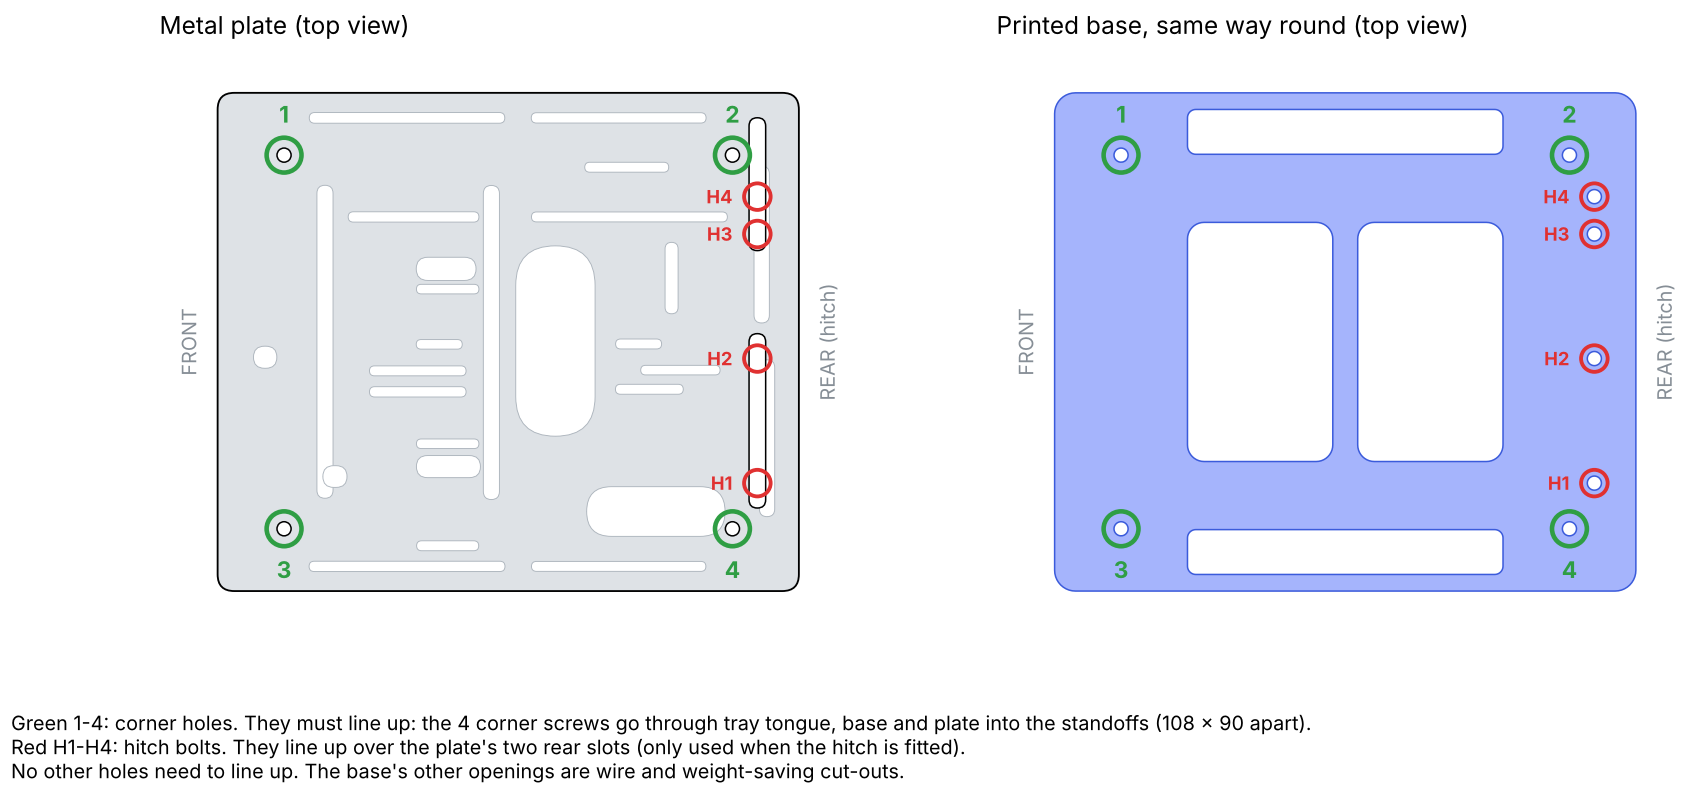
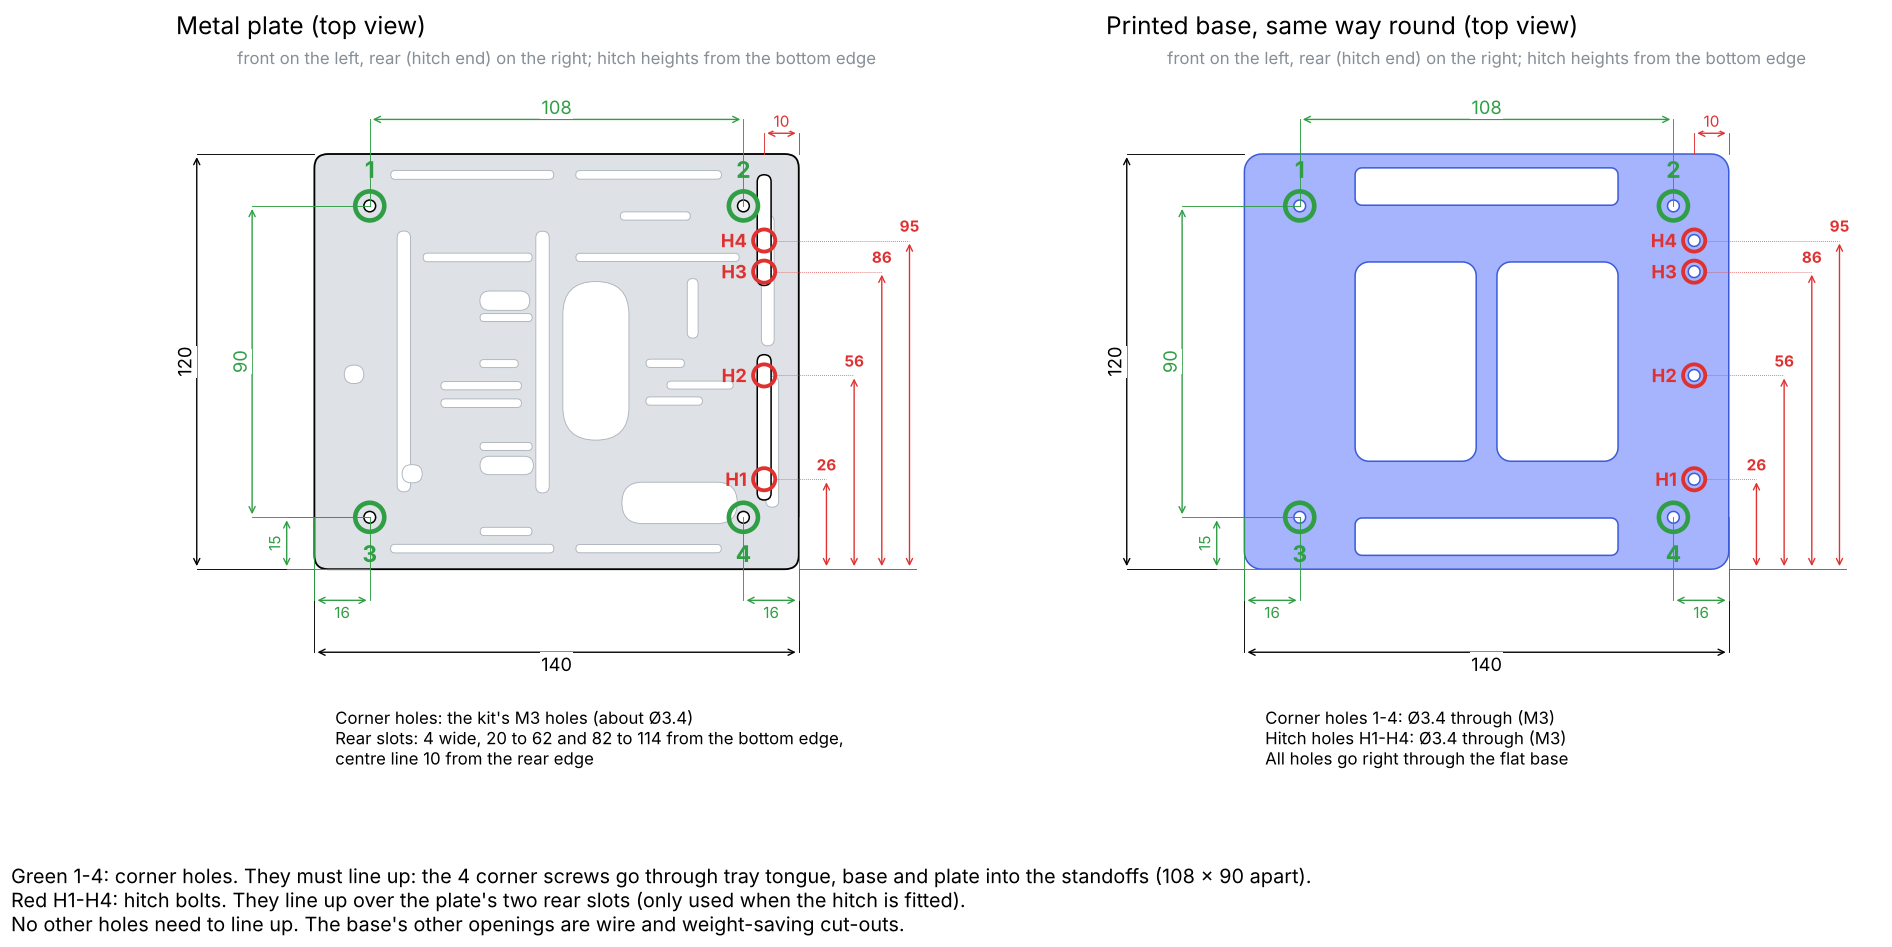
Hole drawing: add dimensions
Claude-Session: https://claude.ai/code/session_011AZmCYsDWcDznu3RCMf8yA

Changed region(s): [[0.5906, 0.0, 0.9947, 0.8161], [0.0933, 0.0, 0.4974, 0.8161], [0.0, 0.9068, 0.7771, 0.9975]]

diff --git a/CAD/DeckMount/drawings/make_drawings.py b/CAD/DeckMount/drawings/make_drawings.py
@@ -386,7 +386,7 @@ def hole_match_drawing():
     from matplotlib.path import Path
     base = trimesh.load(os.path.join(OUT, "..", "stl", "deck_mount_base.stl"))
     sec = base.section(plane_origin=[0, 0, 1.0], plane_normal=[0, 0, 1]).to_2D(to_2D=np.eye(4))[0]
-    fig, axs = plt.subplots(1, 2, figsize=(18, 8.6))
+    fig, axs = plt.subplots(1, 2, figsize=(20, 10))
     bolts = [(130, y) for y in (26, 56, 86, 95)]
     corners = [(hx, hy) for hx in HX for hy in HY]
     labs = {c: str(i + 1) for i, c in enumerate(sorted(corners, key=lambda c: (c[1] < 60, c[0])))}
@@ -412,10 +412,30 @@ def hole_match_drawing():
             ax.text(c[0], c[1] + (6.5 if c[1] > 60 else -6.5), labs[c], ha="center", va="bottom" if c[1] > 60 else "top", fontsize=15, color="#2f9e44", fontweight="bold")
         for i, b in enumerate(bolts):
             ax.add_patch(Circle(b, 3.2, fc="none", ec=RED, lw=2.5))
-            ax.text(b[0] - 6, b[1], "H%d" % (i + 1), ha="right", va="center", fontsize=12, color=RED, fontweight="bold")
-        ax.text(-4, PW / 2, "FRONT", rotation=90, ha="right", va="center", fontsize=13, color=GREY)
-        ax.text(PL + 4, PW / 2, "REAR (hitch)", rotation=90, ha="left", va="center", fontsize=13, color=GREY)
-        ax.set_xlim(-14, PL + 14); ax.set_ylim(-8, PW + 12); ax.set_aspect("equal"); ax.axis("off")
+            ax.text(b[0] - 5, b[1], "H%d" % (i + 1), ha="right", va="center", fontsize=12, color=RED, fontweight="bold")
+        h1, h3 = (HX[0], HY[1]), (HX[0], HY[0])
+        # outside size and corner-hole pattern
+        dim(ax, (0, 0), (PL, 0), "140", off=24, side=-1, fs=12)
+        dim(ax, (0, 0), (0, PW), "120", off=34, fs=12)
+        dim(ax, (HX[0], HY[1]), (HX[1], HY[1]), "108", off=PW - HY[1] + 10, fs=12, color="#2f9e44")
+        dim(ax, h3, h1, "90", off=HX[0] + 18, fs=12, color="#2f9e44")
+        dim(ax, (0, HY[0]), (HX[0], HY[0]), "%.0f" % HX[0], off=HY[0] + 9, side=-1, fs=10, color="#2f9e44")
+        dim(ax, (HX[1], HY[0]), (PL, HY[0]), "%.0f" % (PL - HX[1]), off=HY[0] + 9, side=-1, fs=10, color="#2f9e44")
+        dim(ax, (HX[0], 0), (HX[0], HY[0]), "%.0f" % HY[0], off=HX[0] + 8, fs=10, color="#2f9e44")
+        # hitch bolts: 10 from the rear edge, heights from the bottom long edge
+        dim(ax, (130, PW), (PL, PW), "10", off=6, fs=10, color=RED)
+        for i, b_ in enumerate(bolts):
+            xx = PL + 8 + i * 8
+            ax.plot([b_[0] + 3.2, xx], [b_[1], b_[1]], color=RED, lw=0.5, ls=":")
+            ax.annotate("", xy=(xx, 0), xytext=(xx, b_[1]), arrowprops=dict(arrowstyle="<->", lw=0.9, color=RED))
+            ax.text(xx, b_[1] + 1.5, "%d" % b_[1], ha="center", va="bottom", fontsize=10, color=RED, fontweight="bold")
+        ax.plot([PL, PL + 34], [0, 0], color=RED, lw=0.6)
+        if k == 0:
+            ax.text(6, -40, "Corner holes: the kit's M3 holes (about Ø3.4)\nRear slots: 4 wide, 20 to 62 and 82 to 114 from the bottom edge,\ncentre line 10 from the rear edge", fontsize=11, va="top")
+        else:
+            ax.text(6, -40, "Corner holes 1-4: Ø3.4 through (M3)\nHitch holes H1-H4: Ø3.4 through (M3)\nAll holes go right through the flat base", fontsize=11, va="top")
+        ax.text(PL / 2, PW + 26, "front on the left, rear (hitch end) on the right; hitch heights from the bottom edge", ha="center", fontsize=11, color=GREY)
+        ax.set_xlim(-40, PL + 44); ax.set_ylim(-62, PW + 32); ax.set_aspect("equal"); ax.axis("off")
     fig.text(0.05, 0.02,
              "Green 1-4: corner holes. They must line up: the 4 corner screws go through tray tongue, base and plate into the standoffs (108 x 90 apart).\n"
              "Red H1-H4: hitch bolts. They line up over the plate's two rear slots (only used when the hitch is fitted).\n"
